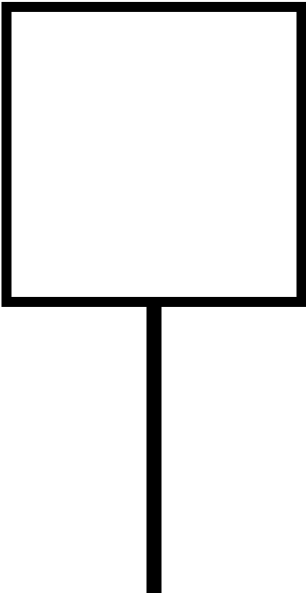
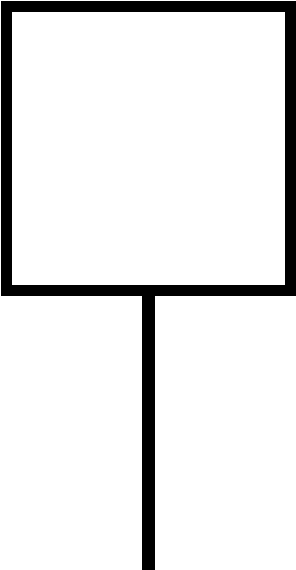
renew gender pins

Changed region(s): [[0.0, 0.0, 0.973, 0.507], [0.5169, 0.507, 0.5473, 1.0], [0.4561, 0.507, 0.4865, 1.0]]

diff --git a/src/js/importSrc.js b/src/js/importSrc.js
@@ -78,8 +78,6 @@ import '../../node_modules/leaflet/dist/leaflet.css';
 
 /** leaflet related source */
 
-import "../css/CustomMarkerCluster.css"
-
 import "../../node_modules/leaflet.markercluster/dist/MarkerCluster.css"
 
 import "../../node_modules/leaflet.markercluster/dist/MarkerCluster.Default.css"
@@ -96,10 +94,6 @@ import 'react-widgets/dist/css/react-widgets.css';
 
 /** pretty check box */
 import "../../node_modules/pretty-checkbox/dist/pretty-checkbox.min.css"
-
-/** ant design */
-// import "../../node_modules/antd/dist/antd.css"
-
 
 
 

diff --git a/src/css/leafletMarkers.css b/src/css/leafletMarkers.css
@@ -152,7 +152,7 @@
 }
 
 .awesome-number-marker-icon-female {
-  background: url('../img/peoplePin/FeMale_7.png') no-repeat center/contain;
+  background: url('../img/peoplePin/female_20200810.png') no-repeat center/contain;
 }
 
 .awesome-number-marker-icon-female_1 {
@@ -160,7 +160,7 @@
 }
 
 .awesome-number-marker-icon-male {
-  background: url('../img/peoplePin/Male_5.png') no-repeat center/contain;
+  background: url('../img/peoplePin/male_20200810.png') no-repeat center/contain;
 }
 
 .awesome-number-marker-icon-male_1 {
